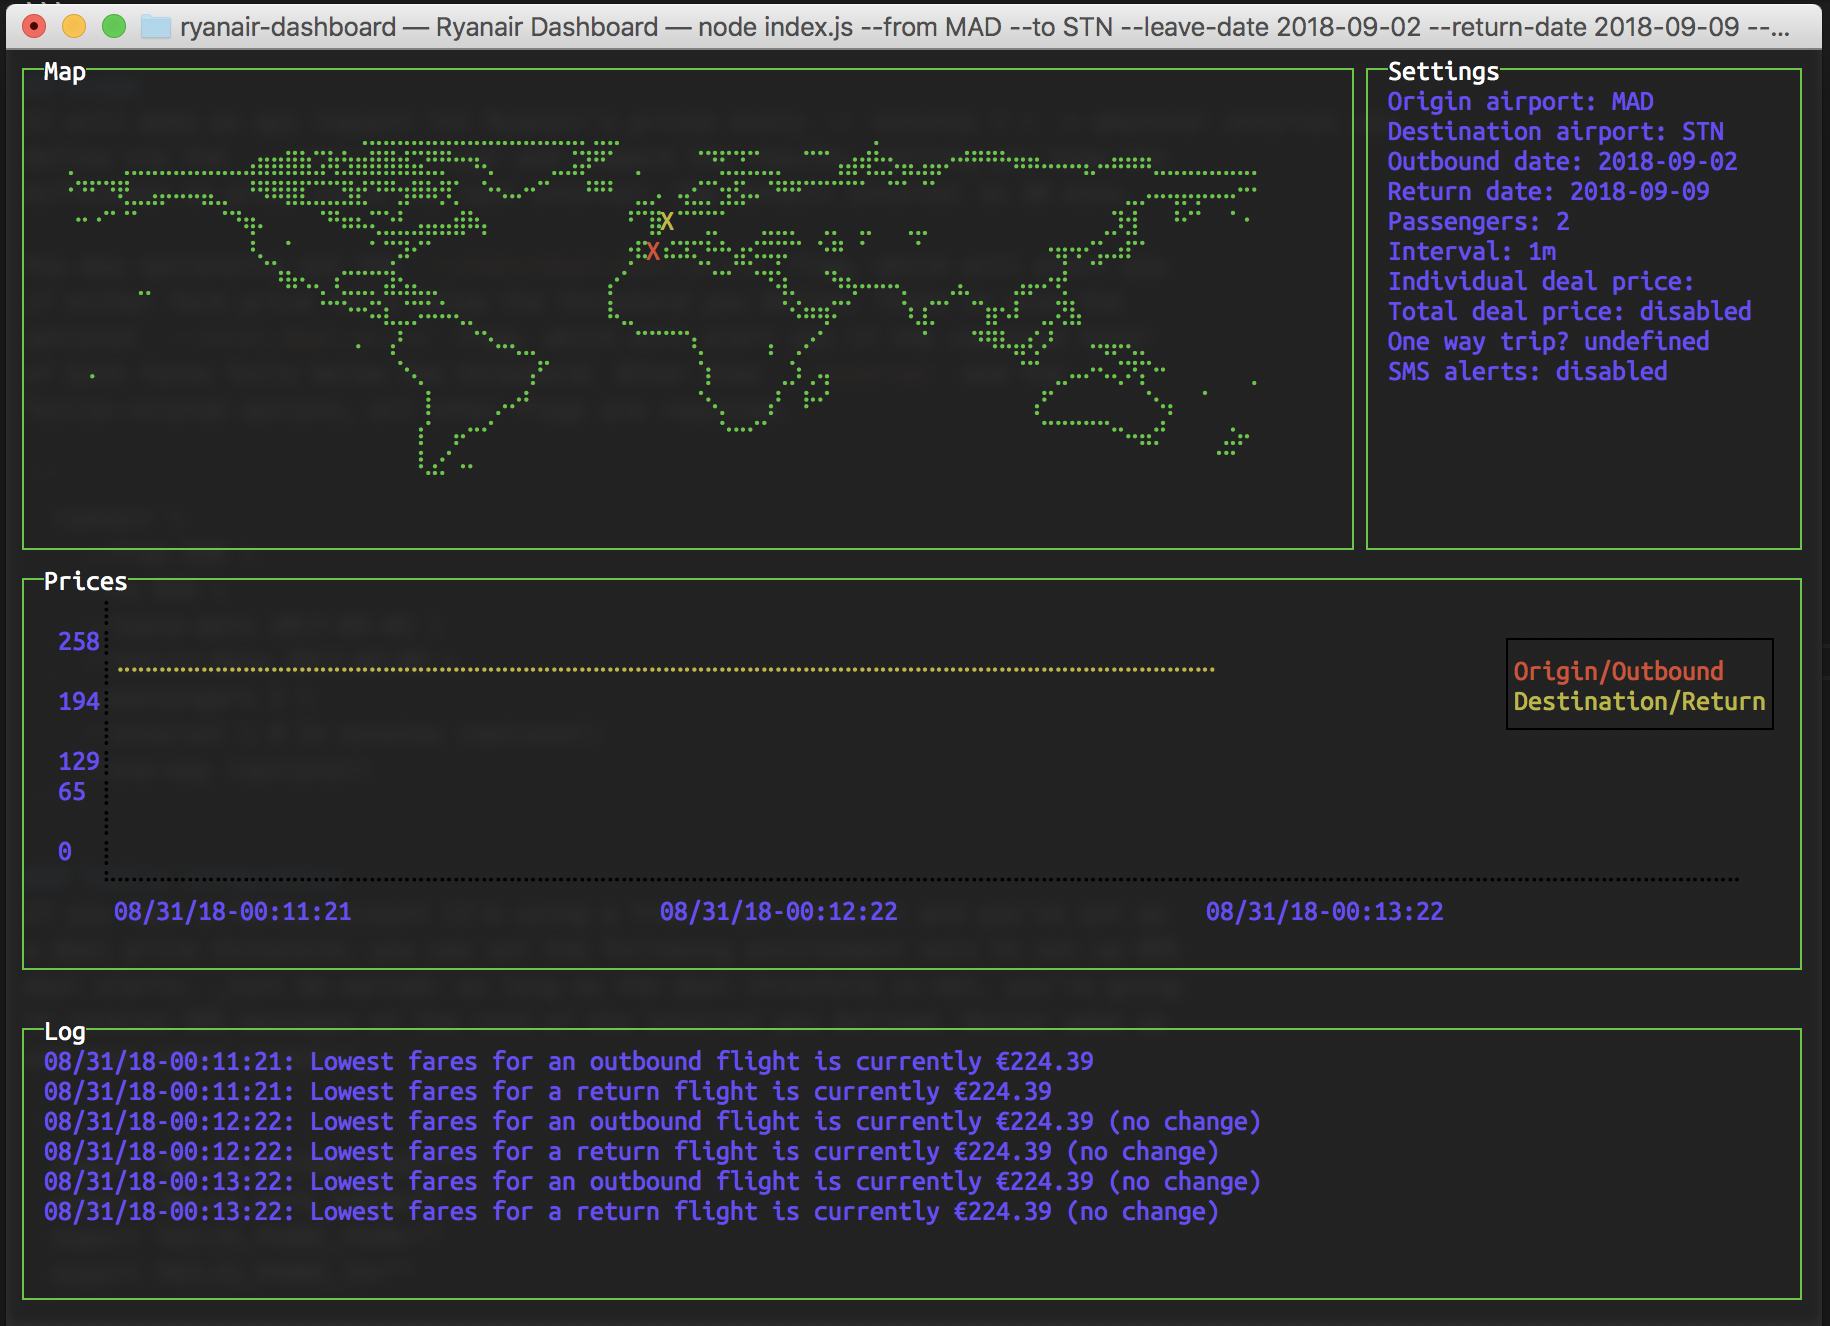
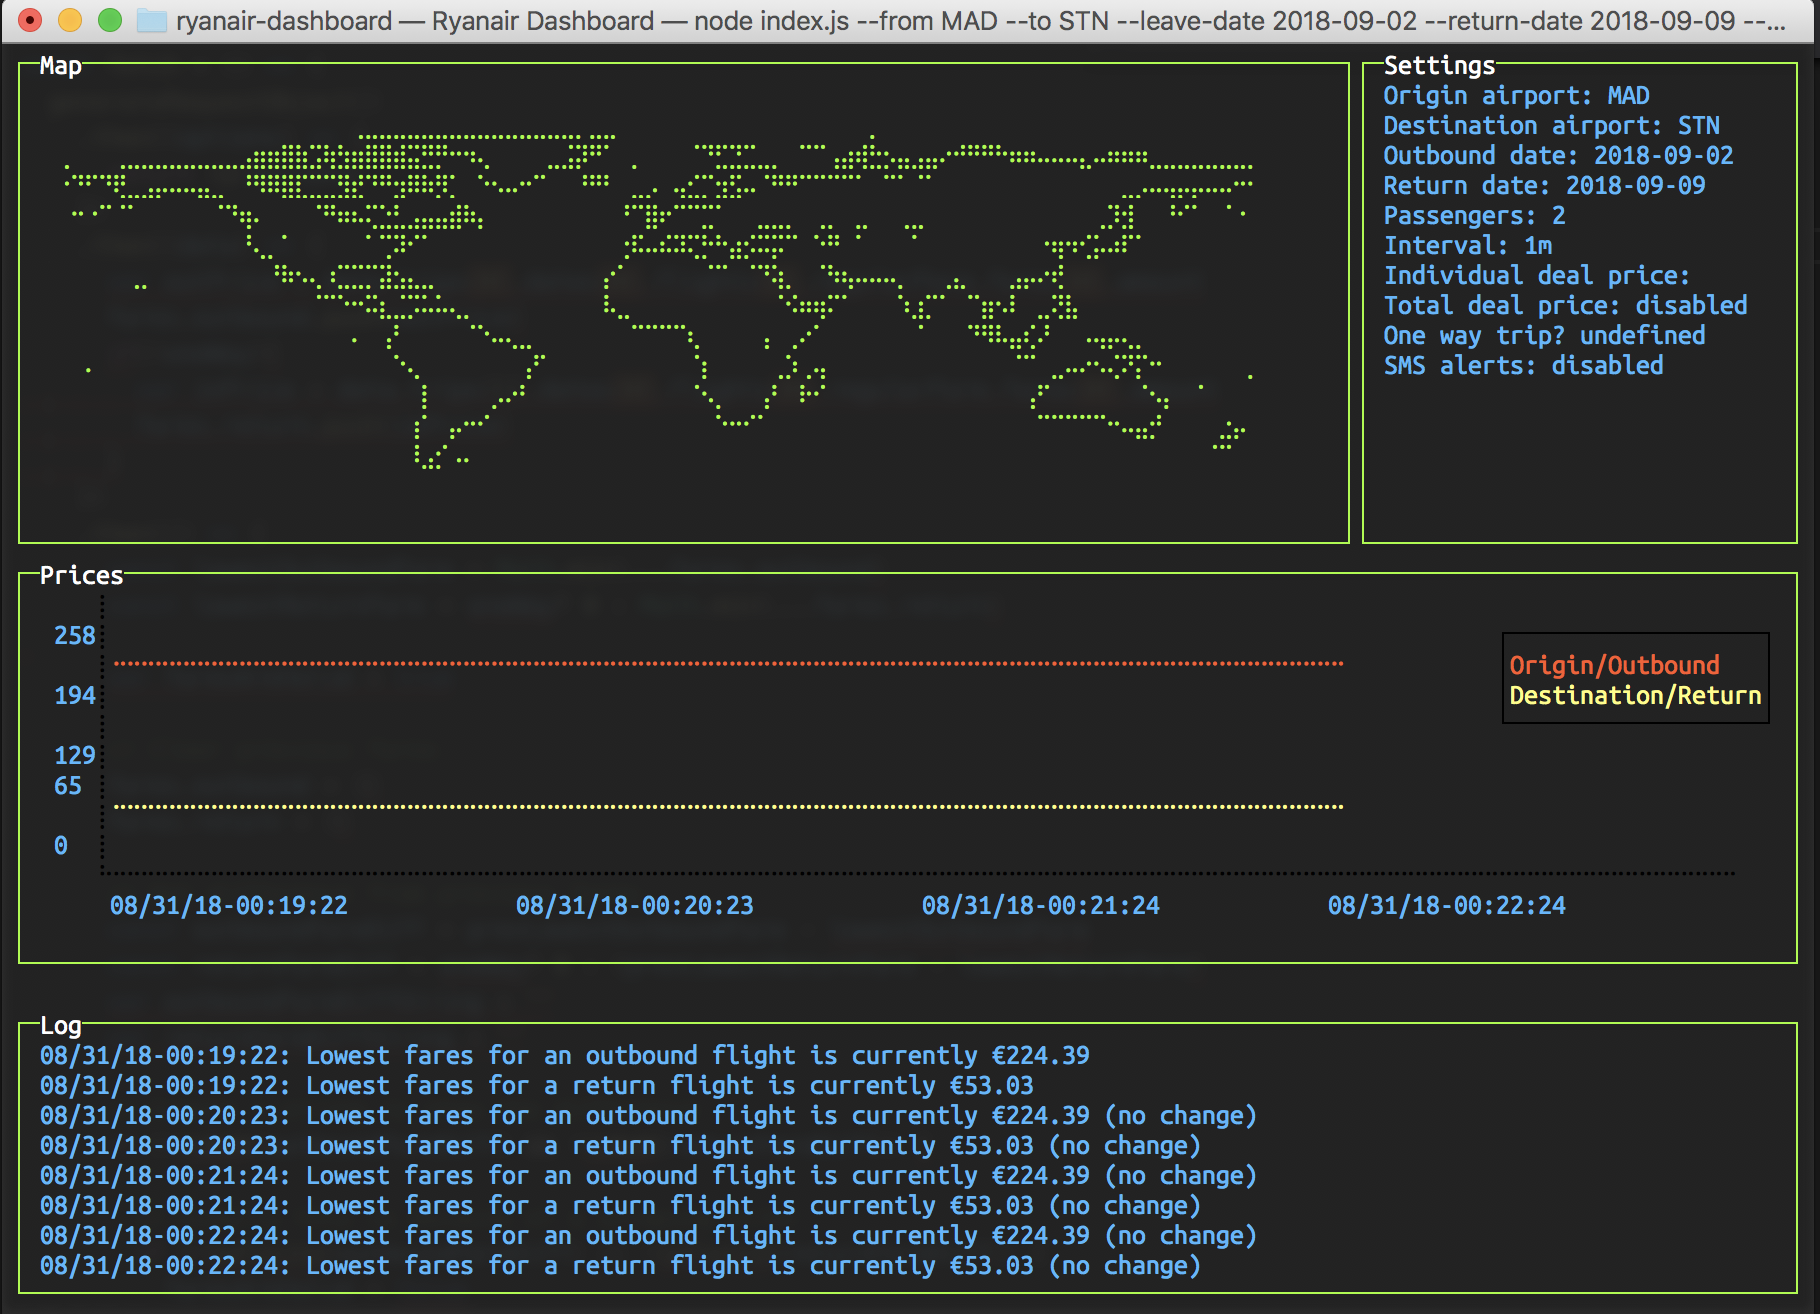
Bug fix

diff --git a/index.js b/index.js
@@ -376,7 +376,7 @@ const fetch = () => {
       fares.outbound.push(outPrice)
       if(!oneWay){
         var inPrice = data.trips[1].dates[0].flights[0].regularFare.fares[0].amount
-        fares.return.push(outPrice)
+        fares.return.push(inPrice)
       }
     })
     .then(() => {
